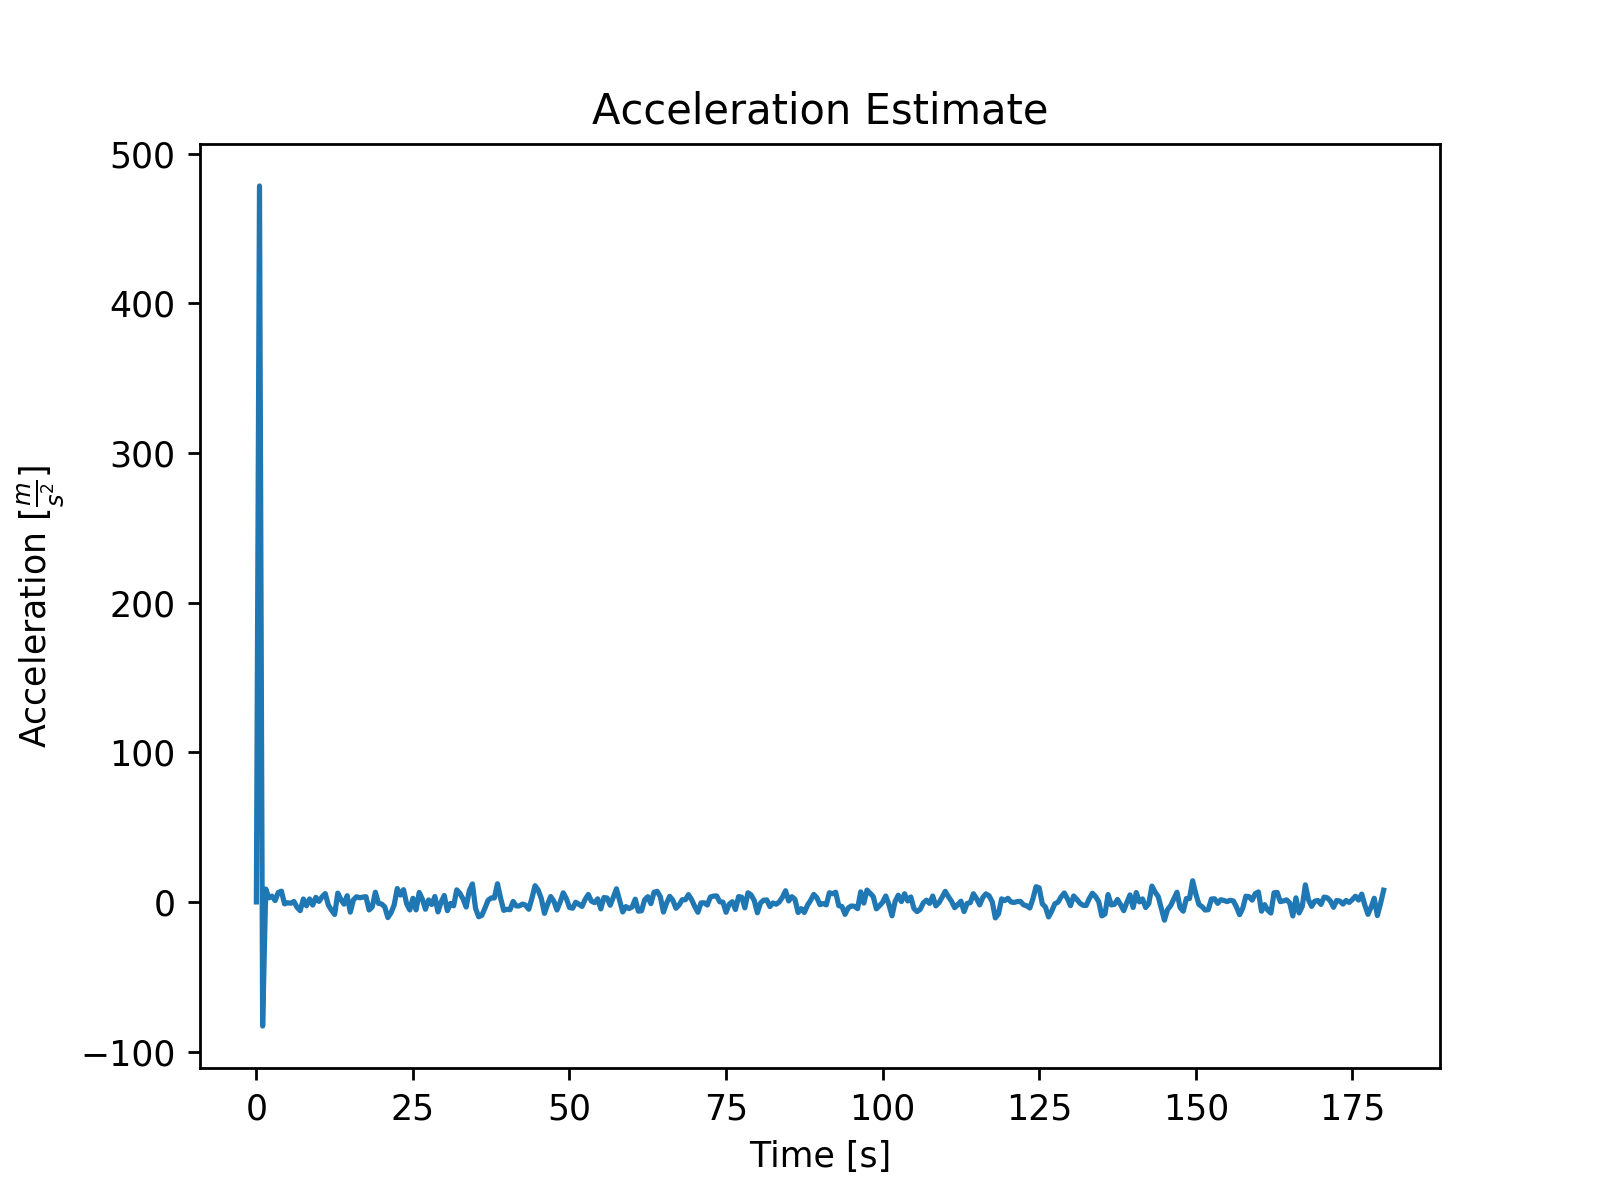
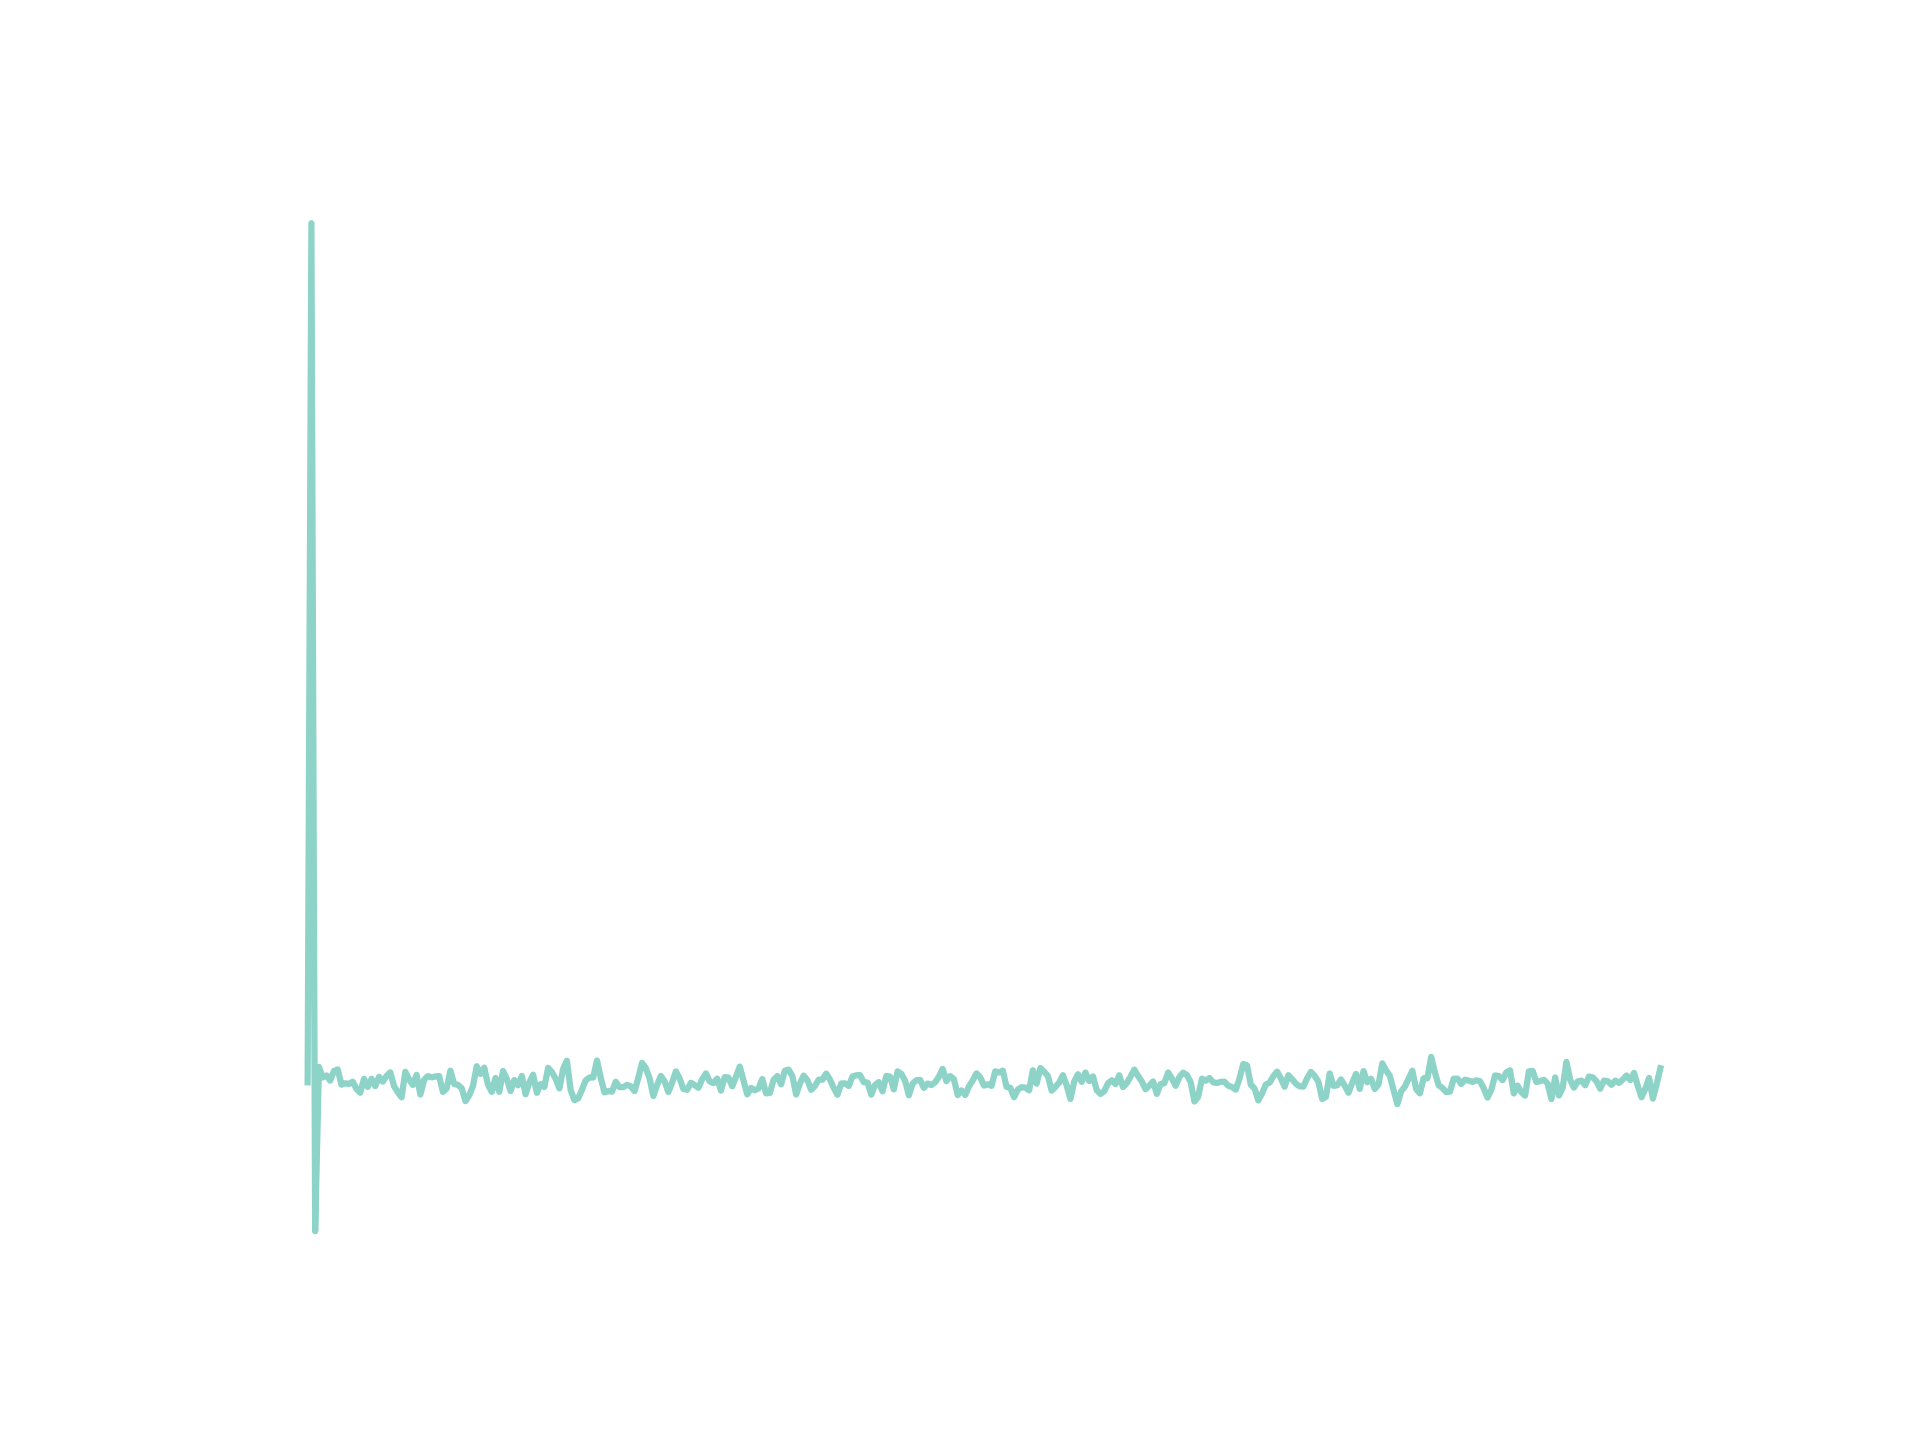
changed styling a bit

diff --git a/static/style.css b/static/style.css
@@ -1,3 +1,4 @@
+
 p {
   /* text-align: justify !important; */
 }
@@ -17,182 +18,15 @@ a {
 }
 
 
-h1 {
+h1, h2, h3, h4, h5, h6 {
   color: var(--accent);
 }
 
-/**
- * prism.js default theme for JavaScript, CSS and HTML
- * Based on dabblet (http://dabblet.com)
- * @author Lea Verou
- */
-code[class*='language-'],
-pre[class*='language-'] {
-  color: #abb2bf;
-  background: none;
-  font-family: Consolas, Monaco, 'Andale Mono', 'Ubuntu Mono', monospace;
-  text-align: left;
-  white-space: pre;
-  word-spacing: normal;
-  word-break: normal;
-  word-wrap: normal;
-  line-height: 1.5;
-  -moz-tab-size: 4;
-  -o-tab-size: 4;
-  tab-size: 4;
-  -webkit-hyphens: none;
-  -moz-hyphens: none;
-  -ms-hyphens: none;
-  hyphens: none;
+
+.container {
+  max-width: 1280px;
 }
 
-pre[class*='language-']::-moz-selection,
-pre[class*='language-'] ::-moz-selection,
-code[class*='language-']::-moz-selection,
-code[class*='language-'] ::-moz-selection {
-  text-shadow: none;
-  background: #383e49;
-}
-
-pre[class*='language-']::selection,
-pre[class*='language-'] ::selection,
-code[class*='language-']::selection,
-code[class*='language-'] ::selection {
-  text-shadow: none;
-  background: #9aa2b1;
-}
-
-@media print {
-  code[class*='language-'],
-  pre[class*='language-'] {
-    text-shadow: none;
-  }
-}
-/* Code blocks */
-pre[class*='language-'] {
-  padding: 1em;
-  margin: 0.5em 0;
-  overflow: auto;
-}
-
-:not(pre) > code[class*='language-'],
-pre[class*='language-'] {
-  background: #282c34;
-}
-
-/* Inline code */
-:not(pre) > code[class*='language-'] {
-  padding: 0.1em;
-  border-radius: 0.3em;
-  white-space: normal;
-}
-
-.token.comment,
-.token.prolog,
-.token.doctype,
-.token.cdata {
-  color: #5c6370;
-}
-
-.token.punctuation {
-  color: #abb2bf;
-}
-
-.token.selector,
-.token.tag {
-  color: #e06c75;
-}
-
-.token.property,
-.token.boolean,
-.token.number,
-.token.constant,
-.token.symbol,
-.token.attr-name,
-.token.deleted {
-  color: #d19a66;
-}
-
-.token.string,
-.token.char,
-.token.attr-value,
-.token.builtin,
-.token.inserted {
-  color: #98c379;
-}
-
-.token.operator,
-.token.entity,
-.token.url,
-.language-css .token.string,
-.style .token.string {
-  color: #56b6c2;
-}
-
-.token.atrule,
-.token.keyword {
-  color: #c678dd;
-}
-
-.token.function {
-  color: #61afef;
-}
-
-.token.regex,
-.token.important,
-.token.variable {
-  color: #c678dd;
-}
-
-.token.important,
-.token.bold {
-  font-weight: bold;
-}
-
-.token.italic {
-  font-style: italic;
-}
-
-.token.entity {
-  cursor: help;
-}
-
-pre.line-numbers {
-  position: relative;
-  padding-left: 3.8em;
-  counter-reset: linenumber;
-}
-
-pre.line-numbers > code {
-  position: relative;
-}
-
-.line-numbers .line-numbers-rows {
-  position: absolute;
-  pointer-events: none;
-  top: 0;
-  font-size: 100%;
-  left: -3.8em;
-  width: 3em; /* works for line-numbers below 1000 lines */
-  letter-spacing: -1px;
-  border-right: 0;
-
-  -webkit-user-select: none;
-  -moz-user-select: none;
-  -ms-user-select: none;
-  user-select: none;
-}
-
-.line-numbers-rows > span {
-  pointer-events: none;
-  display: block;
-  counter-increment: linenumber;
-}
-
-.line-numbers-rows > span:before {
-  content: counter(linenumber);
-  color: #5c6370;
-  display: block;
-  padding-right: 0.8em;
-  text-align: right;
+img {
+  padding: 2.5em;
 }

diff --git a/static/files/kalman/kalman.py b/static/files/kalman/kalman.py
@@ -4,6 +4,8 @@ import matplotlib.pyplot as plt
 from numpy import array, identity, loadtxt, vstack
 from numpy.linalg import inv
 
+plt.style.use("dark_background")
+
 data = loadtxt("data.txt", delimiter="\t")
 
 time = data[:, 0]
@@ -49,6 +51,7 @@ def new_plot(x, y, xAx, yAx, title: str):
     plt.xlabel(xAx)
     plt.ylabel(yAx)
     plt.title(title)
+    plt.savefig(f"{title.lower()}-estimate.png", dpi=300, transparent=True)
 
 
 new_plot(time, xEst, "Time [s]", "Position [m]", "Position Estimate")

diff --git a/content/programming/simple-kalman-filter.md b/content/programming/simple-kalman-filter.md
@@ -10,53 +10,65 @@ math: true
 
 {{<toc>}}
 
-The Kalman filter is one of the most important algorithms in engineering. But as an aerospace
-undegrad, the most exposure I got to it was a 15 minute PowerPoint presentation. It wasn't until I
-took a state estimation class as an extracurricular before I really understood it. Before I took the
-class, I tried to use a Kalman filter in a project for
-[USLI](https://www.nasa.gov/stem/studentlaunch/home/index.html), but the resources online didn't
-make much sense. A lot of the material you find online does a good job of explaining all the bits
-and pieces, but they don't do a good job of using it in examples. Sometimes there are edge cases
-that don't fit the standard examples. So, here's how the filter works in plain english, and a couple
-of examples you can look at to give you an idea of how it works and how to use it.
+I think Kalman filters are one of the most underappreciated topics in
+engineering. In my time as an aerospace undergrad, the most exposure I got was a
+15 minute PowerPoint presentation until I took a state estimation class my
+senior year. Before then, I tried to write a filter for the apogee control
+system in Auburn's
+[USLI](https://www.nasa.gov/stem/studentlaunch/home/index.html) competition
+rocket. However, the problem I ran in to was the fact that the examples online
+didn't work in the context I needed it to. They set up the simplest possible
+problem and use the standard way of tackling that problem that every other
+example uses. But sometimes you have a problem that doesn't fit that mold, and
+unless you already know how the filter works you're stuck.
 
-_What is a Kalman filter?_
+I will run you through the simplest possible example in case you've never seen
+the filter before. _Then I'm going to show you what to do if the example won't
+work for you._ There's only so much that I can cover in one blog post, but I
+hope it will be enough to point you in the right direction. 
 
-It is an _optimal linear state estimator_. In other words, it uses measurements to estimate the
-state of something. This something is typically called a "system", and a system could be an
-airplane, a rover, a drone, a car --- pretty much anything. The state of a system would be things
-like its speed, its altitude, how quickly it is accelerating, etc., and even things like its mass or
-temperature. Most of the time it's used for
-kinematics (a system's position, speed, and acceleration).
 
-You might be wondering, why not just use a sensor to measure something directly? Slap an altimeter
-on a plane and boom, you have its altitude. Why do you need to "estimate" the altitude? The problem
-is sensors are noisy.
+## Background
 
-{{< figure src="/images/programming/kalman/sensor-noise.png" position="center" >}}
+Let me back up a bit if you've never heard about the Kalman filter. It is an
+_optimal linear state estimator_. In other words, it uses measurements to
+estimate the state of something. This something is typically called a "system",
+and a system could be an airplane, a rover, a drone, a car --- pretty much
+anything. The state of a system would be things like its speed, its altitude,
+how quickly it is accelerating, etc., and even things like its mass or
+temperature. Most of the time it's used for kinematics (a system's position,
+speed, and acceleration).
 
-Here's an example of noisy sensor measurements (conveniently coupled with the Kalman filter's
-estimate). Also sometimes you can't measure a state directly. Imagine trying to
-measure the vertical speed of a drone. The only practical way is to measure the change in altitude vs
-change in time with an altimeter. Dividing the noise in the sensor measurements make the noise even
-worse, and makes your vertical speed "measurement" is unusable.
+You might be wondering, why not just use a sensor to measure something directly?
+Slap an altimeter on a plane and boom, you have its altitude. Why do you need to
+"estimate" the altitude? The problem is sensors are noisy.
+
+{{< figure src="/images/programming/kalman/sensor-noise.png" position="center">}}
+
+Here's an example of noisy sensor measurements (conveniently coupled with the
+Kalman filter's estimate). Also sometimes you can't measure a state directly.
+Imagine trying to measure the vertical speed of a drone. The only practical way
+is to measure the change in altitude vs change in time with an altimeter.
+Dividing the noise in the sensor measurements make the noise even worse, and
+makes your vertical speed "measurement" is unusable.
 
 _How does it work?_
 
-The Kalman filter uses equations that describe the state together with your measurements to estimate
-the true state. The equations _don't_ need to be a perfect representation of your system. Often
-times a good approximation will work just fine. However, to make these estimates the filter needs
-the _covariance_ of a few different "noises". An obvious "noise" is the sensor noise itself (often
-denoted as $R$). This is measurement (sometimes called observation) noise. However, there is also
-_process_ noise ($Q$) and _estimate_ noise ($P$). They're a bit hard to explain, but for now as far
-as you are concerned, $Q$ is a knob that you can tweak to change the performance of the
-filter. $R$ is something you can get from the specs of the sensor. For $P$, you can make an initial
-guess as to what the values are, but as you'll see it doesn't matter too much. The filter changes
-the covariance of $P$ until it converges to the true value.
+The Kalman filter uses equations that describe the state together with your
+measurements to estimate the true state. The equations _don't_ need to be a
+perfect representation of your system. Often times a good approximation will
+work just fine. However, to make these estimates the filter needs the
+_covariance_ of a few different "noises". An obvious "noise" is the sensor noise
+itself (often denoted as $R$). This is measurement (sometimes called
+observation) noise. However, there is also _process_ noise ($Q$) and _estimate_
+noise ($P$). They're a bit hard to explain, but for now as far as you are
+concerned, $Q$ is a knob that you can tweak to change the performance of the
+filter. $R$ is something you can get from the specs of the sensor. For $P$, you
+can make an initial guess as to what the values are, but as you'll see it
+doesn't matter too much. The filter changes the covariance of $P$ until it
+converges to the true value.
 
 ## Algorithm
-
-You've probably seen something like this before...
 
 _Measurement Update Equations_
 
@@ -88,23 +100,22 @@ $$
 \end{aligned}
 $$
 
-These equations make up the classic linear Kalman filter, and the algorithm runs through these
-equations in this order. Every variable in these equations is a matrix, but they don't _have_ to be.
-If you have just one state, then these variables are just scalars.
+These equations make up the classic linear Kalman filter, and the algorithm runs
+through these equations in this order. Every variable in these equations is a
+matrix, but they don't _have_ to be. If you have just one state, then these
+variables are just scalars. The subscripts are important here, and sometimes
+they're a source of confusion. Remember that the Kalman filter is a _recursive_
+algorithm. It depends on previous data to make estimates. $k|k-1$ denotes values
+from the previous time step, $k|k$ is the current iteration, and $k+1|k$ is the
+next. 
 
-The subscripts are important here, and sometimes they're a source of confusion.
-Remember that the Kalman filter is a _recursive_ algorithm. It depends on
-previous data to make estimates. $k|k-1$ denotes values from the previous time
-step, $k|k$ is the current iteration, and $k+1|k$ is the next. 
-
-_The $k+1|k$ values become $k|k-1$ values in the next iteration, not the $k|k$
-values._
+_The $k+1|k$ values become $k|k-1$ values in the next iteration, not the $k|k$ values._
 
 This is the part that confused me at first. $\hat{x}_{k|k}$ and $P_{k|k}$ are
 used for _predicting_ the state in the time update equations. They're not the
-actual estimate.
+actual estimate, but correct me if I'm wrong anywhere.
 
-## Examples
+## Simplest Example
 
 Here's a simple 3-state example. The measurements are for an airplane flying downrange in
 straight and level unaccelerated flight. It is not accelerating or changing
@@ -117,16 +128,18 @@ import matplotlib.pyplot as plt
 from numpy import array, identity, loadtxt, vstack
 from numpy.linalg import inv
 
+plt.style.use("dark_background")
+
 data = loadtxt("data.txt", delimiter="\t")
 
 time = data[:, 0]
 measurements = data[:, 1]
 dt = time[1] - time[0]
 
-X = array([[measurements[0]], [0], [0]])            # State vector
-H = array([[1, 0, 0]])                              # Measurement matrix
-P = array([[1, 0, 0], [0, 10, 0], [0, 0, 100]])     # Estimate noise
-Q = array([[0, 0, 0], [0, 0, 0], [0, 0, 0.001]])    # Process noise
+X = array([[measurements[0]], [0], [0]])  # State vector
+H = array([[1, 0, 0]])  # Measurement matrix
+P = array([[1, 0, 0], [0, 10, 0], [0, 0, 100]])  # Estimate noise
+Q = array([[0, 0, 0], [0, 0, 0], [0, 0, 0.001]])  # Process noise
 R = 0.05 ** 2
 
 # State transition matrix
@@ -167,11 +180,7 @@ def new_plot(x, y, xAx, yAx, title: str):
 new_plot(time, xEst, "Time [s]", "Position [m]", "Position Estimate")
 new_plot(time, vEst, "Time [s]", r"Velocity [$\frac{m}{s}$]", "Velocity Estimate")
 new_plot(
-    time,
-    aEst,
-    "Time [s]",
-    r"Acceleration [$\frac{m}{s^2}$]",
-    "Acceleration Estimate"
+    time, aEst, "Time [s]", r"Acceleration [$\frac{m}{s^2}$]", "Acceleration Estimate"
 )
 plt.show()
 ```
@@ -183,3 +192,8 @@ yourself. You should get the following:
 {{< figure src="/images/programming/kalman/position-estimate.png" position="center" >}}
 {{< figure src="/images/programming/kalman/velocity-estimate.png" position="center" >}}
 {{< figure src="/images/programming/kalman/acceleration-estimate.png" position="center" >}}
+
+
+## More Complex Example
+
+_I haven't gotten around to this yet, but I will soon!_
